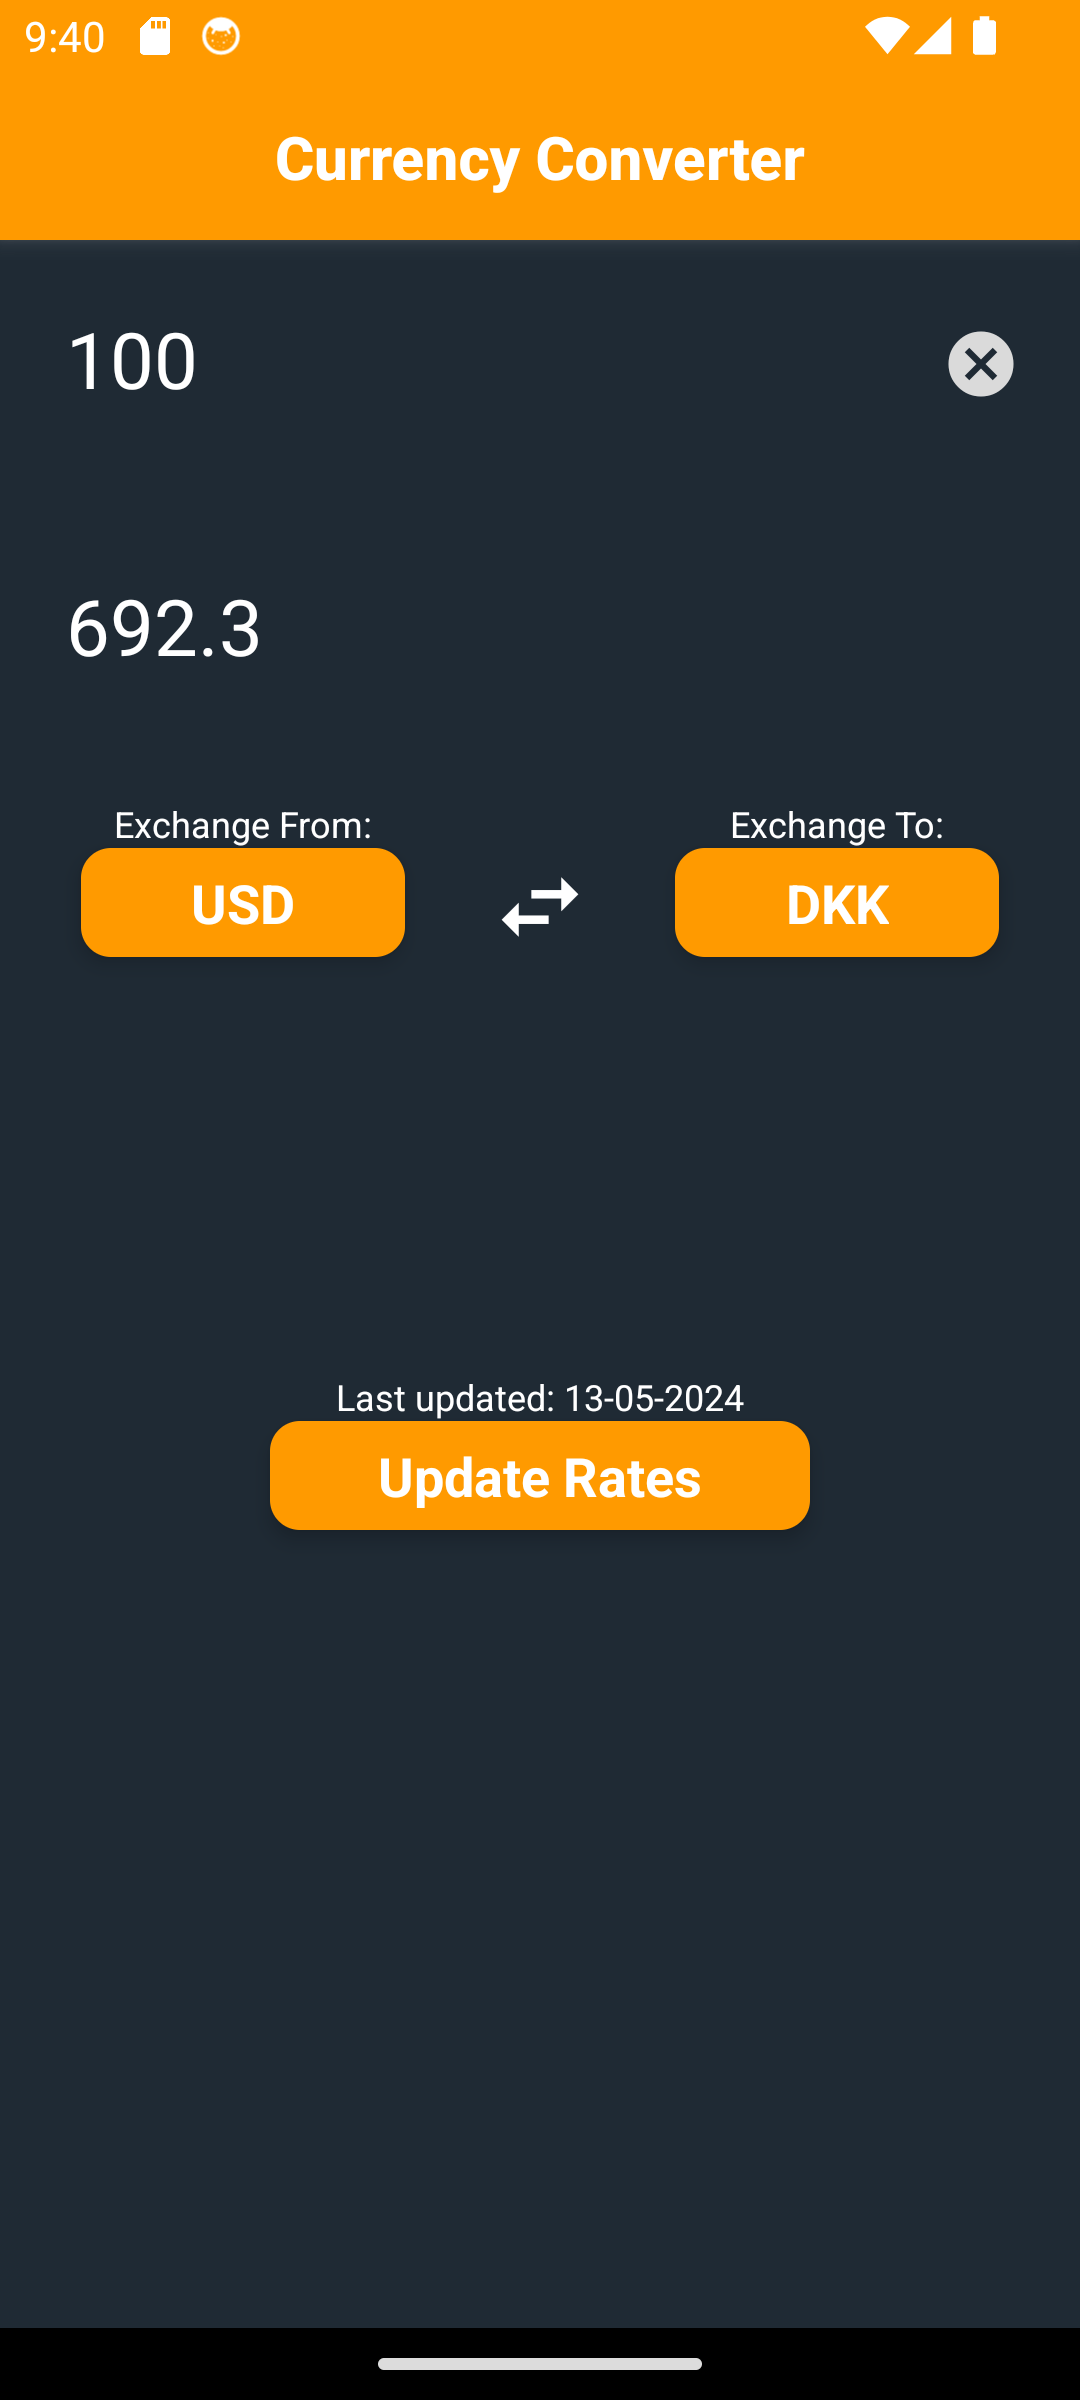
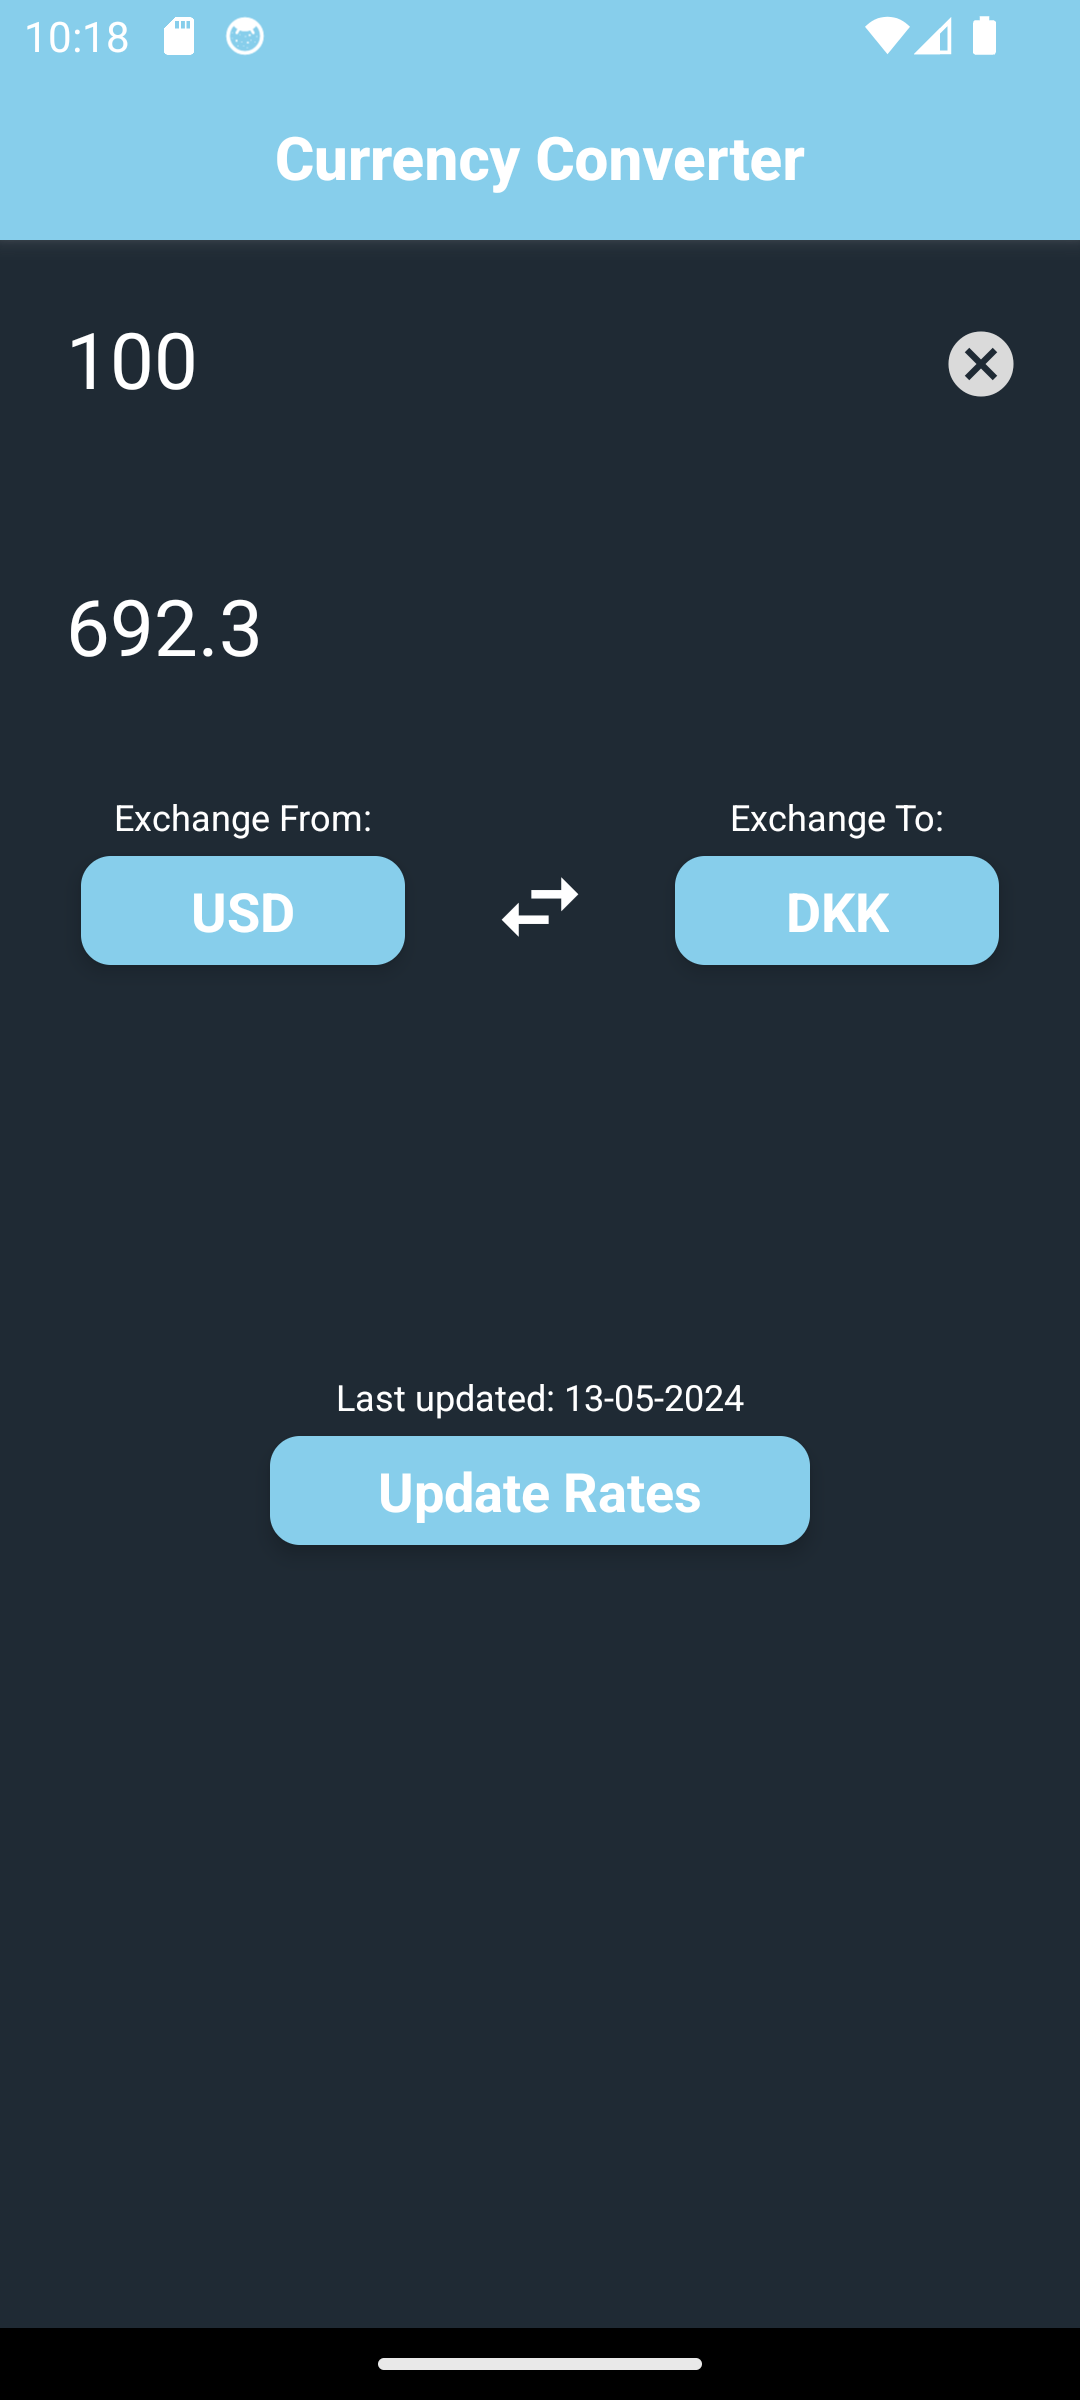
added new colors and updated readme

diff --git a/homescreen.tsx b/homescreen.tsx
@@ -376,7 +376,7 @@ function HomeScreen({navigation}: any) {
       />
       <View style={styles.container}>
         <View style={[{width: '30%', margin: 10}]}>
-          <View style={[{alignSelf: 'center'}]}>
+          <View style={[{alignSelf: 'center', marginBottom: 5}]}>
             <Text style={styles.text}>Exchange From:</Text>
           </View>
           <AppButton
@@ -392,7 +392,7 @@ function HomeScreen({navigation}: any) {
           </TouchableOpacity>
         </View>
         <View style={[{width: '30%', margin: 10}]}>
-          <View style={[{alignSelf: 'center'}]}>
+          <View style={[{alignSelf: 'center', marginBottom: 5}]}>
             <Text style={styles.text}>Exchange To:</Text>
           </View>
           <AppButton
@@ -745,6 +745,7 @@ const styles = StyleSheet.create({
   taxStyle: {
     alignItems: 'center',
     justifyContent: 'center',
+    marginBottom: 5,
   },
   ratesStyle: {
     alignItems: 'center',

diff --git a/constants/colors.js b/constants/colors.js
@@ -9,7 +9,7 @@ export default {
   SHARK: '#242526',
   SHUTTLE_GREY: '#565E67',
   BROWN: '#a14e00',
-  PRIMARY: '#FF9A00',
-  SECONDARY: '#b26b00',
+  PRIMARY: '#87CEEB',
+  SECONDARY: '#517b8d',
   BACKGROUND: '#1f2a34',
 };
